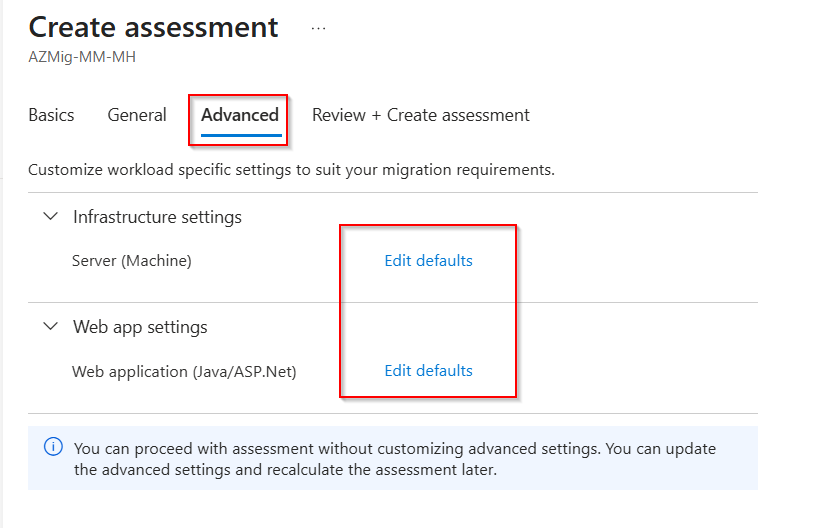
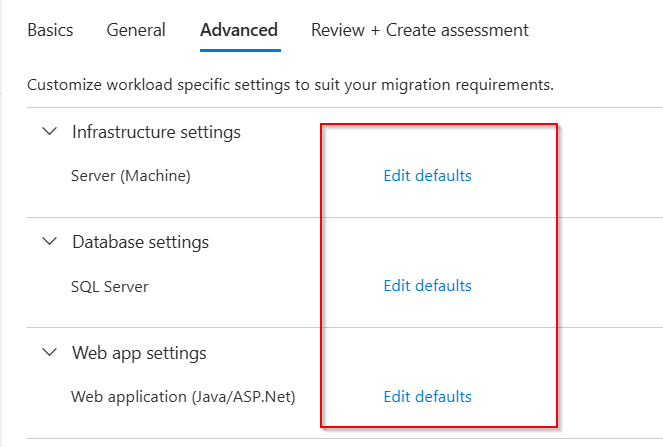
Update CH4

diff --git a/03-Azure/01-03-Infrastructure/06_Migration_Secure_AI_Ready/walkthrough/challenge-4/solution.md b/03-Azure/01-03-Infrastructure/06_Migration_Secure_AI_Ready/walkthrough/challenge-4/solution.md
@@ -16,6 +16,8 @@ Provide a name and click on *Add workloads* to add the recently discovered syste
 
 ![image](./img/Assess6.png)
 
+![image](./img/Assess6-1.png) 
+
 You can adjust the target environment settings like the target location, the VM size and pricing options.
 When finished click on *Next* to continue.
 
